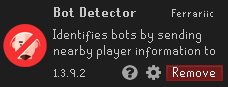
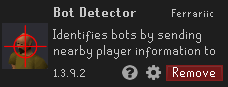
Card

Changed region(s): [[0.0, 0.2759, 0.2149, 0.8046]]

diff --git a/src/templates/base.html b/src/templates/base.html
@@ -23,7 +23,7 @@
     <meta name="theme-color" content="#f06262" />
     <meta property="og:description" content="We aim to detect bots in Old School RuneScape using Machine Learning Algorithms.
     " />
-    <meta property="og:image" content="/static/meta/metapage.png" />
+    <meta property="og:image" content="/static/images/logo-sm.png" />
 
     <!-- Twitter -->
     <meta property="twitter:card" content="summary_large_image" />
@@ -32,7 +32,7 @@
     <meta property="twitter:description" content="We aim to detect bots in Old School RuneScape using Machine Learning Algorithms.
     " />
     <meta name="theme-color" content="#f06262" />
-    <meta property="twitter:image" content="/static/meta/metapage.png" />
+    <meta property="twitter:image" content="/static/images/logo-sm.png" />
 
     <!-- Title of the page, dynamically set based on the template -->
     <title>OSRS Bot Detector</title>
@@ -99,17 +99,7 @@
                 <div class="col-md-6">
                     <ul class="nav justify-content-center justify-content-md-end mt-3 mt-md-0 mx-n3">
                         <li class="nav-item">
-                            <a class="nav-link text-white text-opacity-75 text-white-hover" href="#">
-                                Terms
-                            </a>
-                        </li>
-                        <li class="nav-item">
-                            <a class="nav-link text-white text-opacity-75 text-white-hover" href="">
-                                Privacy
-                            </a>
-                        </li>
-                        <li class="nav-item">
-                            <a class="nav-link text-white text-opacity-75 text-white-hover nn-cmp-show" href="#"
+                            <a class="nav-link text-white text-opacity-75 text-white-hover nn-cmp-show" href="{{ url_for('cookies') }}"
                                 style="display: inline-block;">
                                 Cookies
                             </a>

diff --git a/src/templates/pages/faq.html b/src/templates/pages/faq.html
@@ -9,7 +9,7 @@
                </div>
                <div class="card-body">
                   <div class="card-icon text-center">
-                     <img src="/static/logotype.svg" alt="Bot Detector">
+                     <img src="/static/images/logo-sm.png" alt="Bot Detector">
                   </div>
                   <h1 class="h3 mt-2 text-center">Frequently asked Questions</h1>
                   <p class="fs-16 mt-4 bt-plugin-desc text-center">
@@ -112,9 +112,9 @@
                Plugin settings
             </p>
             <hr>
-            </div>
+
             <div class="container loltable">
-            <div class="card-article mb-4">
+
 
 
   <!-- Header Row -->
@@ -230,10 +230,9 @@
 </div>
 </div>
 
+
             <br>
             <hr>
-            <div class="card card-article card-server mb-4">
-               <div class="card-body">
             <div class="accordion">
                <div class="accordion-item">
                   <h2 class="accordion-header">
@@ -433,6 +432,7 @@
                      </div>
                   </div>
                </div>
+            </div>
             </div>
           </div>
        </div>

diff --git a/src/templates/pages/cookies.html b/src/templates/pages/cookies.html
@@ -1,0 +1,28 @@
+{% extends "base.html" %}
+
+<div class="container-fluid">
+   <div class="container">
+      <div class="row">
+         <article>
+            <div class="card card-article card-server mb-4">
+               <div class="card-img text-center">
+               </div>
+               <div class="card-body">
+                  <div class="card-icon text-center">
+                     <img src="/static/images/logo-sm.png" alt="Bot Detector">
+                  </div>
+                  <h1 class="h3 mt-2 text-center">Privacy Policy & Cookies</h1>
+                  <p class="fs-16 mt-4 bt-plugin-desc text-center">
+                     To do.
+                     <hr>
+                     If your question still has not been answered - feel free to message us on
+                     <a href="https://discord.gg/RZEf2ms4gs"><i class="fab fa-discord" aria-hidden="true"></i> Discord</a>.
+                  </p>
+                  <hr>
+          </article>
+        </div>
+    </div>
+</div>
+
+
+{% block content %}

diff --git a/src/templates/pages/home.html b/src/templates/pages/home.html
@@ -14,7 +14,7 @@
                         </div>
                         <div class="card-body">
                             <div class="card-icon">
-                                <img src="/static/logotype.svg" alt="Bot Detector">
+                                <img src="/static/images/logo-sm.png" alt="Bot Detector">
                             </div>
                             <h1 class="h3 mt-2">Bot Detector</h1>
                             <div class="post-date mt-1">An Open-Source Machine Learning Plugin</div>

diff --git a/src/templates/pages/contributors.html b/src/templates/pages/contributors.html
@@ -14,7 +14,7 @@
                         </div>
                         <div class="card-body">
                             <div class="card-icon">
-                                <img src="/static/logotype.svg" alt="Bot Detector">
+                                <img src="/static/images/logo-sm.png" alt="Bot Detector">
                             </div>
                             <h1 class="h3 mt-2">Contributors and Supporters</h1>
                             <p class="fs-16 mt-4 bt-plugin-desc">

diff --git a/src/templates/pages/account_search.html b/src/templates/pages/account_search.html
@@ -14,7 +14,7 @@
                         </div>
                         <div class="card-body">
                             <div class="card-icon">
-                                <img src="/static/logotype.svg" alt="Bot Detector">
+                                <img src="/static/images/logo-sm.png" alt="Bot Detector">
                             </div>
                             <h1 class="h3 mt-2">Account Search</h1>
                             <p class="fs-16 mt-4 bt-plugin-desc">

diff --git a/src/templates/pages/contact.html b/src/templates/pages/contact.html
@@ -14,7 +14,7 @@
                     </div>
                     <div class="card-body">
                         <div class="card-icon text-center">
-                            <img src="/static/logotype.svg" alt="Bot Detector">
+                            <img src="/static/images/logo-sm.png" alt="Bot Detector">
                         </div>
                         <h1 class="h3 mt-2 text-center">Contact us</h1>
                         <p class="fs-16 mt-4 bt-plugin-desc text-center">

diff --git a/src/templates/navigation.html b/src/templates/navigation.html
@@ -10,7 +10,7 @@
 
     <!-- Navbar brand/logo -->
     <a class="navbar-brand" href="https://osrsbotdetector.com">
-      <img src="/static/logotype.svg" alt="Bot Detector"> Bot Detector
+      <img src="/static/images/logo-sm.png" alt="Bot Detector"> Bot Detector
     </a>
 
     <!-- Navbar links for support and social media -->

diff --git a/src/api/cookies.py b/src/api/cookies.py
@@ -1,0 +1,11 @@
+from fastapi import APIRouter, Request
+from fastapi.responses import HTMLResponse
+
+from src.core.config import CONFIG, templates
+
+router = APIRouter()
+
+
+@router.get("/")
+async def contact(request: Request) -> HTMLResponse:
+    return templates.TemplateResponse("pages/cookies.html", {"request": request})
